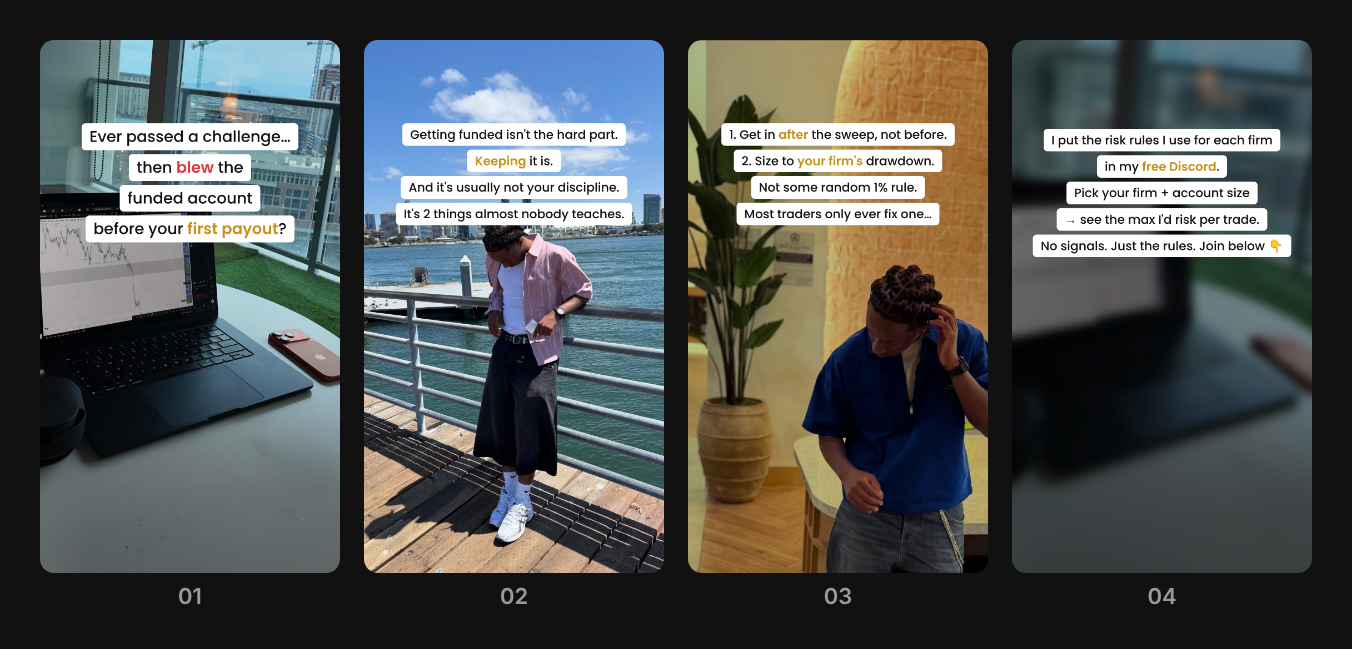
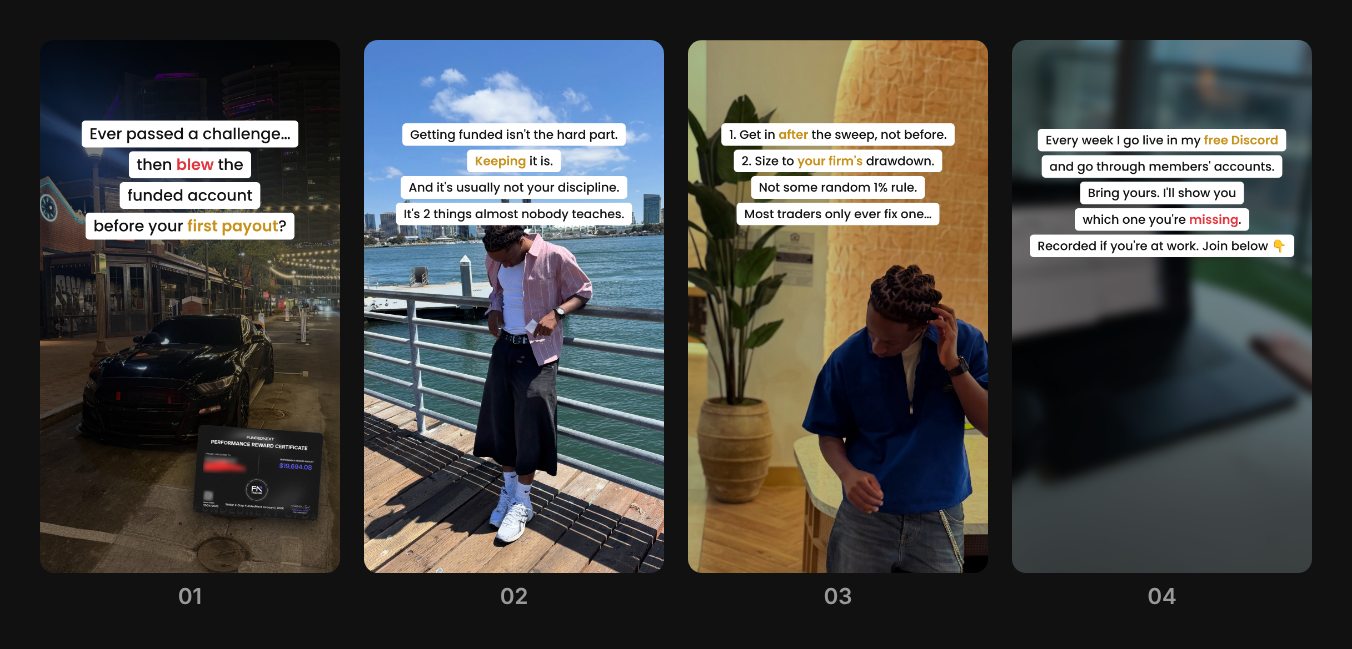
Revise variant B and replace A/C with two new soft Discord variants
- B: Mustang LARP + silent $19,694.08 payout card on frame 1, new
  incentive (weekly live account breakdown call, recorded)
- D: Desmond case study (6 payouts, same 15K account)
- E: Discord tour using the real channel list + member payout wall +
  giveaway incentive
- Save Discord screenshot, log feedback in brand.md

Claude-Session: https://claude.ai/code/session_015aTEPXVumuzpUDhw5jFPqj

Changed region(s): [[0.0311, 0.0616, 0.2485, 0.8937], [0.7456, 0.1849, 0.963, 0.4006]]

diff --git a/sequences/2026-11-10_soft_discord-keep-the-account/frames/01.html b/sequences/2026-11-10_soft_discord-keep-the-account/frames/01.html
@@ -2,6 +2,6 @@
 <link rel="preconnect" href="https://fonts.gstatic.com">
 <link href="https://fonts.googleapis.com/css2?family=Poppins:wght@500;600&display=swap" rel="stylesheet">
 <link href="style.css" rel="stylesheet"></head>
-<body><img class="bg" src="../../../03-backgrounds-larp/backgrounds/jean_ivan_11_Ddi4TtXjJtZ_9.jpg" style="object-position:50% 50%;">
-<div class="shade" style=""></div>
-<div class="stack big" style="top:300px"><span class="l">Ever passed a challenge…</span><span class="l">then <span class="pain">blew</span> the</span><span class="l">funded account</span><span class="l">before your <span class="hl">first payout</span>?</span></div></body></html>
+<body><img class="bg" src="../../../03-backgrounds-larp/backgrounds/jean_ivan_11_1787611846_3971097690401227924_45494833154.jpg" style="object-position:50% 55%;">
+<div class="shade" style="background:linear-gradient(#000b,#0003 45%,#0006)"></div>
+<img class='card' src='../assets/fifa-19694.png' style='left:560px;top:1400px;width:450px;transform:rotate(4deg)'><div class="stack big" style="top:290px"><span class="l">Ever passed a challenge…</span><span class="l">then <span class="pain">blew</span> the</span><span class="l">funded account</span><span class="l">before your <span class="hl">first payout</span>?</span></div></body></html>

diff --git a/sequences/2026-11-10_soft_discord-desmond/frames/01.html b/sequences/2026-11-10_soft_discord-desmond/frames/01.html
@@ -1,0 +1,7 @@
+<!doctype html><html><head><meta charset="utf-8">
+<link rel="preconnect" href="https://fonts.gstatic.com">
+<link href="https://fonts.googleapis.com/css2?family=Libre+Baskerville:ital,wght@1,400&display=swap" rel="stylesheet">
+<link href="style.css" rel="stylesheet"></head>
+<body><img class="bg" src="../../../03-backgrounds-larp/backgrounds/jean_ivan_11_1783644862_3937820383109397696_45494833154.jpg" style="object-position:50% 50%;">
+<div class="shade" style="background:#0009"></div>
+<img class='card' src='../assets/desmond-1-jun-406.png' style='left:70px;top:880px;width:700px;transform:rotate(-5deg)'><img class='card' src='../assets/desmond-4-aug-580.png' style='left:300px;top:960px;width:700px;transform:rotate(4deg)'><img class='card' src='../assets/desmond-5-aug-277.png' style='left:90px;top:1180px;width:720px;transform:rotate(-2deg)'><img class='card' src='../assets/desmond-6-sep-341.png' style='left:290px;top:1250px;width:700px;transform:rotate(3deg)'><div class="stack big" style="top:290px"><span class="l">6 payouts.</span><span class="l">Same <span class="hl">15K</span> account.</span><span class="l">4 months straight.</span></div></body></html>

diff --git a/sequences/2026-11-10_soft_discord-inside/frames/03.html b/sequences/2026-11-10_soft_discord-inside/frames/03.html
@@ -1,0 +1,7 @@
+<!doctype html><html><head><meta charset="utf-8">
+<link rel="preconnect" href="https://fonts.gstatic.com">
+<link href="https://fonts.googleapis.com/css2?family=Poppins:wght@500;600&display=swap" rel="stylesheet">
+<link href="style.css" rel="stylesheet"></head>
+<body>
+<div class="shade" style=""></div>
+<img class='card' src='../assets/r1.png' style='left:60px;top:520px;width:560px;transform:rotate(-4deg)'><img class='card' src='../assets/r3.png' style='left:470px;top:600px;width:560px;transform:rotate(5deg)'><img class='card' src='../assets/r2.png' style='left:40px;top:900px;width:560px;transform:rotate(3deg)'><img class='card' src='../assets/r4.png' style='left:480px;top:980px;width:560px;transform:rotate(-3deg)'><img class='card' src='../assets/r5.png' style='left:60px;top:1260px;width:540px;transform:rotate(-2deg)'><img class='card' src='../assets/r6.png' style='left:500px;top:1300px;width:530px;transform:rotate(4deg)'><div class="stack" style="top:270px"><span class="l">And this is what members posted.</span><span class="l">Can't even fit them all.</span></div></body></html>

diff --git a/sequences/2026-11-10_soft_discord-keep-the-account/frames/04.html b/sequences/2026-11-10_soft_discord-keep-the-account/frames/04.html
@@ -4,4 +4,4 @@
 <link href="style.css" rel="stylesheet"></head>
 <body><img class="bg" src="../../../03-backgrounds-larp/backgrounds/jean_ivan_11_Ddi4TtXjJtZ_9.jpg" style="object-position:50% 50%;filter:blur(16px) brightness(.6);transform:scale(1.12)">
 <div class="shade" style=""></div>
-<div class="stack" style="top:320px"><span class="l">I put the risk rules I use for each firm</span><span class="l">in my <span class="hl">free Discord</span>.</span><span class="l">Pick your firm + account size</span><span class="l">→ see the max I'd risk per trade.</span><span class="l">No signals. Just the rules. Join below 👇</span></div></body></html>
+<div class="stack" style="top:320px"><span class="l">Every week I go live in my <span class="hl">free Discord</span></span><span class="l">and go through members' accounts.</span><span class="l">Bring yours. I'll show you</span><span class="l">which one you're <span class="pain">missing</span>.</span><span class="l">Recorded if you're at work. Join below 👇</span></div></body></html>

diff --git a/sequences/2026-11-10_soft_discord-desmond/frames/03.html b/sequences/2026-11-10_soft_discord-desmond/frames/03.html
@@ -1,0 +1,7 @@
+<!doctype html><html><head><meta charset="utf-8">
+<link rel="preconnect" href="https://fonts.gstatic.com">
+<link href="https://fonts.googleapis.com/css2?family=Libre+Baskerville:ital,wght@1,400&display=swap" rel="stylesheet">
+<link href="style.css" rel="stylesheet"></head>
+<body><img class="bg" src="../../../03-backgrounds-larp/backgrounds/jean_ivan_11_1779493271_3902994722826156645_45494833154.jpg" style="object-position:50% 50%;">
+<div class="shade" style="background:#0007"></div>
+<img class='card' src='../assets/desmond-4-aug-580.png' style='left:90px;top:880px;width:900px;transform:rotate(-2deg)'><div class="stack" style="top:290px"><span class="l">Desmond passed phase 1 in March.</span><span class="l">Had to pass it <span class="pain">again</span> in May.</span><span class="l">Then the payouts started.</span><span class="l">His words, not mine 👇</span></div></body></html>

diff --git a/sequences/2026-11-10_soft_discord-keep-the-account/frames/style.css b/sequences/2026-11-10_soft_discord-keep-the-account/frames/style.css
@@ -1,8 +1,8 @@
 html,body{margin:0;width:1080px;height:1920px;overflow:hidden;background:#000}
 .bg{position:absolute;inset:0;width:1080px;height:1920px;object-fit:cover}
 .shade{position:absolute;inset:0}
-.blur{position:absolute;backdrop-filter:blur(22px);-webkit-backdrop-filter:blur(22px);background:#0003;border-radius:14px}
-.stack{position:absolute;left:0;right:0;display:flex;flex-direction:column;align-items:center;gap:14px;padding:0 60px}
+.card{position:absolute;border-radius:18px;box-shadow:0 24px 70px #000c;display:block}
+.stack{position:absolute;left:0;right:0;display:flex;flex-direction:column;align-items:center;gap:14px;padding:0 60px;z-index:5}
 .l{background:#fff;color:#111;font:500 44px/1.3 'Poppins',sans-serif;padding:12px 28px;border-radius:14px;text-align:center;max-width:960px}
 .stack.big .l{font-size:56px}
 .hl{color:#c8911a;font-weight:600}

diff --git a/sequences/2026-11-10_soft_discord-desmond/frames/04.html b/sequences/2026-11-10_soft_discord-desmond/frames/04.html
@@ -1,0 +1,7 @@
+<!doctype html><html><head><meta charset="utf-8">
+<link rel="preconnect" href="https://fonts.gstatic.com">
+<link href="https://fonts.googleapis.com/css2?family=Libre+Baskerville:ital,wght@1,400&display=swap" rel="stylesheet">
+<link href="style.css" rel="stylesheet"></head>
+<body><img class="bg" src="../../../03-backgrounds-larp/backgrounds/jean_ivan_11_1779493271_3902994733286776427_45494833154.jpg" style="object-position:50% 50%;">
+<div class="shade" style=""></div>
+<div class="stack" style="top:320px"><span class="l">Every one of these got posted in my Discord.</span><span class="l">Come watch the next ones happen.</span><span class="l">+ ask me anything in <span class="hl">#question-tab</span>.</span><span class="l">I answer every one. Free. Join below 👇</span></div></body></html>

diff --git a/sequences/2026-11-10_soft_discord-inside/frames/04.html b/sequences/2026-11-10_soft_discord-inside/frames/04.html
@@ -1,0 +1,7 @@
+<!doctype html><html><head><meta charset="utf-8">
+<link rel="preconnect" href="https://fonts.gstatic.com">
+<link href="https://fonts.googleapis.com/css2?family=Poppins:wght@500;600&display=swap" rel="stylesheet">
+<link href="style.css" rel="stylesheet"></head>
+<body><img class="bg" src="../../../03-backgrounds-larp/backgrounds/jean_ivan_11_1779493271_3902994709202869102_45494833154.jpg" style="object-position:50% 50%;">
+<div class="shade" style="background:#0008"></div>
+<div class="stack" style="top:340px"><span class="l">This month I'm also giving away</span><span class="l"><span class="hl">[a funded challenge]</span> to one member.</span><span class="l">Just be in the server.</span><span class="l">Free to join. Link below 👇</span></div></body></html>

diff --git a/sequences/2026-11-10_soft_discord-inside/frames/01.html b/sequences/2026-11-10_soft_discord-inside/frames/01.html
@@ -1,0 +1,7 @@
+<!doctype html><html><head><meta charset="utf-8">
+<link rel="preconnect" href="https://fonts.gstatic.com">
+<link href="https://fonts.googleapis.com/css2?family=Poppins:wght@500;600&display=swap" rel="stylesheet">
+<link href="style.css" rel="stylesheet"></head>
+<body><img class="bg" src="../../../03-backgrounds-larp/backgrounds/jean_ivan_11_Ddi4TtXjJtZ_5.jpg" style="object-position:50% 50%;">
+<div class="shade" style="background:#0004"></div>
+<div class="stack big" style="top:320px"><span class="l">You've paid for Discords</span><span class="l">with less than this.</span><span class="l">Mine's <span class="hl">free</span>.</span><span class="l">Here's what's inside 👇</span></div></body></html>

diff --git a/sequences/2026-11-10_soft_discord-desmond/frames/02.html b/sequences/2026-11-10_soft_discord-desmond/frames/02.html
@@ -1,0 +1,7 @@
+<!doctype html><html><head><meta charset="utf-8">
+<link rel="preconnect" href="https://fonts.gstatic.com">
+<link href="https://fonts.googleapis.com/css2?family=Libre+Baskerville:ital,wght@1,400&display=swap" rel="stylesheet">
+<link href="style.css" rel="stylesheet"></head>
+<body>
+<div class="shade" style=""></div>
+<div class="stack" style="top:520px"><span class="l">Not one big payout.</span><span class="l"><span class="hl">$406. $162. $92. $580. $277. $341.</span></span><span class="l">Small. Boring. Consistent.</span><span class="l">That's what <span class="hl">keeping</span> an account looks like.</span></div></body></html>

diff --git a/sequences/2026-11-10_soft_discord-desmond/frames/style.css b/sequences/2026-11-10_soft_discord-desmond/frames/style.css
@@ -1,0 +1,9 @@
+html,body{margin:0;width:1080px;height:1920px;overflow:hidden;background:#000}
+.bg{position:absolute;inset:0;width:1080px;height:1920px;object-fit:cover}
+.shade{position:absolute;inset:0}
+.card{position:absolute;border-radius:18px;box-shadow:0 24px 70px #000c;display:block}
+.stack{position:absolute;left:0;right:0;display:flex;flex-direction:column;align-items:center;gap:14px;padding:0 60px;z-index:5}
+.l{background:#000;color:#fff;font:italic 400 44px/1.32 'Libre Baskerville',serif;padding:12px 26px 14px;border-radius:6px;text-align:center;max-width:960px}
+.stack.big .l{font-size:58px}
+.hl{color:#f2c14e}
+.pain{color:#ff6b6b}

diff --git a/sequences/2026-11-10_soft_discord-inside/frames/style.css b/sequences/2026-11-10_soft_discord-inside/frames/style.css
@@ -1,0 +1,9 @@
+html,body{margin:0;width:1080px;height:1920px;overflow:hidden;background:#000}
+.bg{position:absolute;inset:0;width:1080px;height:1920px;object-fit:cover}
+.shade{position:absolute;inset:0}
+.card{position:absolute;border-radius:18px;box-shadow:0 24px 70px #000c;display:block}
+.stack{position:absolute;left:0;right:0;display:flex;flex-direction:column;align-items:center;gap:14px;padding:0 60px;z-index:5}
+.l{background:#000;color:#fff;font:600 44px/1.3 'Poppins',sans-serif;padding:12px 28px;border-radius:12px;text-align:center;max-width:960px}
+.stack.big .l{font-size:58px}
+.hl{color:#f2c14e}
+.pain{color:#ff6b6b}
